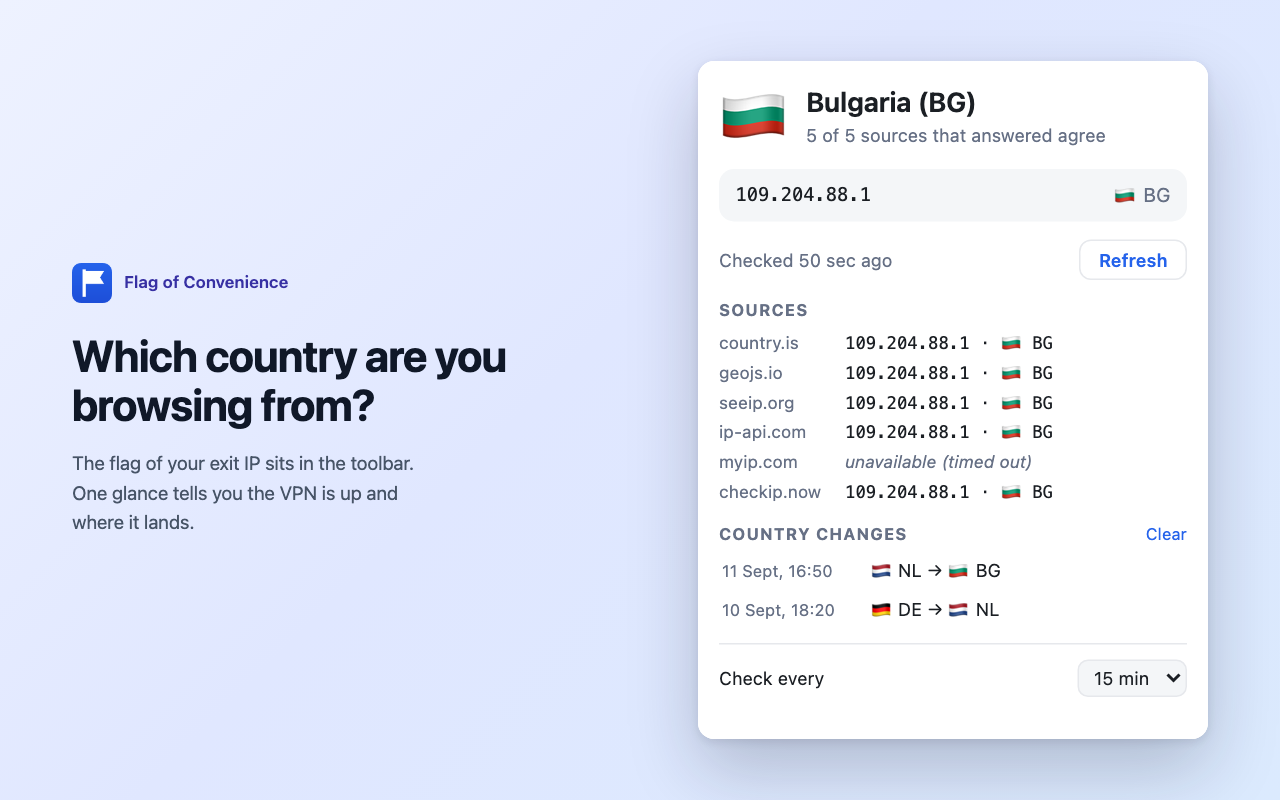
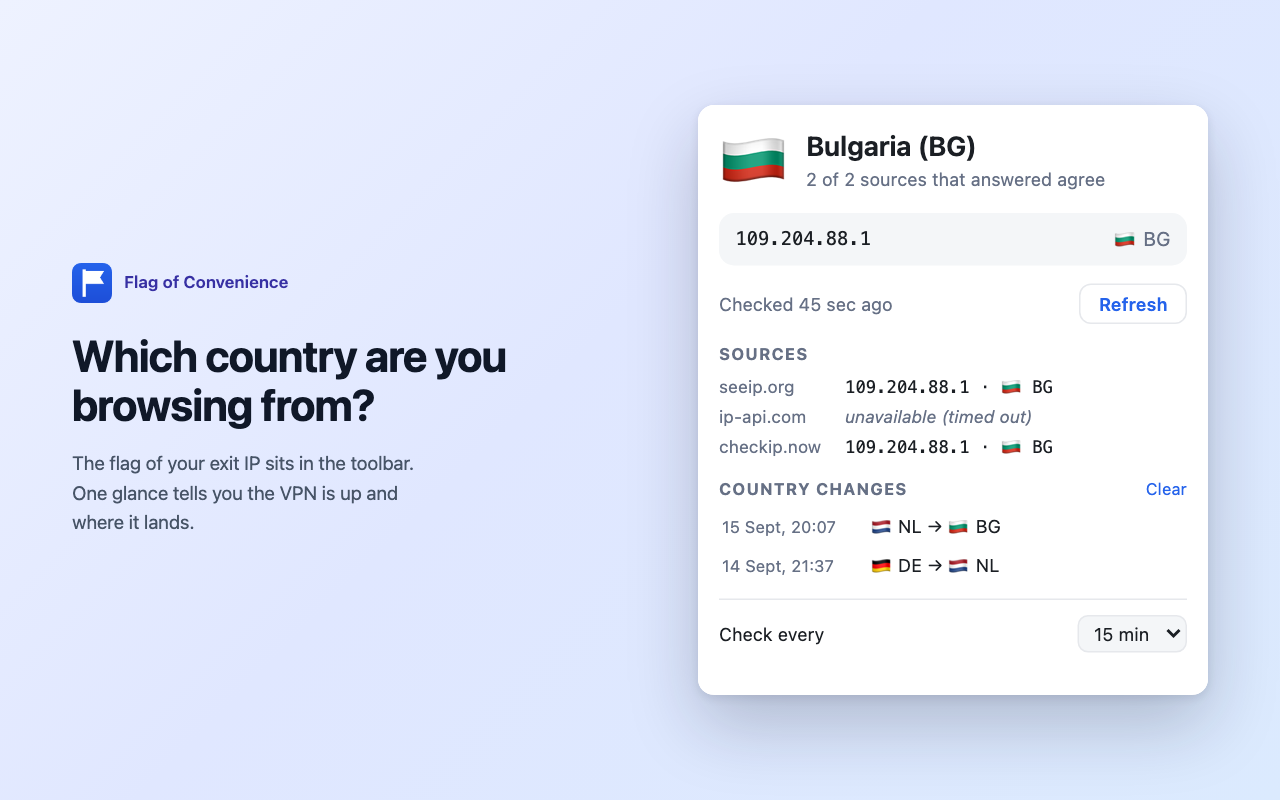
Keep only the HTTP/1.1 sources, and open the popup from the saved reading
country.is, GeoJS and myip.com were reached over HTTP/2, so their connections
could never be dropped after a check, and an answer from one of them might
still be travelling over a socket opened before the VPN came up. Everything
built to live with that - resting them between full rounds, overruling their
majority once the fresh witnesses disagreed with all of them, the https
witness an http answer needed before it could join that overruling - was
compensating for a problem the other three sources do not have. With
seeip.org, ip-api.com and checkip.now every source speaks HTTP/1.1, every
socket is closed after every check, and every answer is certain to have come
over the route in use at the time. Three witnesses still settle a
disagreement between two of them by majority.

The popup used to wait for the service worker before it showed anything:
getState was its only way to the data, and a cold worker that repaints the
toolbar icon on its way up could leave the popup on "Checking…" for a
noticeable moment. It now reads the saved state, history and settings
straight from storage and paints them, and wakes the worker only after that
frame has had a chance to land, to mark the country change as seen and to
refresh a stale reading. Anything that arrives in the meantime - a storage
event, a click on Clear, a new interval - wins over the slower disk read,
and a late worker reply cannot replace a newer reading. The canvas readback
[…]

diff --git a/lib/sources.js b/lib/sources.js
@@ -2,12 +2,15 @@
 // country in a single response, so no local geo database is needed.
 //
 // Several services are queried on every check on purpose: single services go
-// down (api.myip.com was unreachable for hours during development) and an exit
-// IP behind a VPN pool can differ between two requests made a second apart.
+// down for hours at a time, and an exit IP behind a VPN pool can differ
+// between two requests made a second apart.
 //
 // Every endpoint here must answer with `Access-Control-Allow-Origin: *`. That
 // is what lets the extension ship with no host permissions at all, so adding a
 // source means checking that header first.
+//
+// Every source is kept on a server that speaks HTTP/1.1, so its connection can
+// be dropped after each check - see dropConnections() for why that matters.
 //
 // https unless the service leaves no choice: one source is reached over plain
 // http because its free tier offers nothing else, and that is also what keeps
@@ -17,16 +20,6 @@
 import { canonicalize, isPublicIp } from './ip.js';
 
 export const SOURCES = [
-  {
-    id: 'country.is',
-    url: 'https://api.country.is/',
-    parse: (d) => ({ ip: d.ip, cc: d.country }),
-  },
-  {
-    id: 'geojs.io',
-    url: 'https://get.geojs.io/v1/ip/country.json',
-    parse: (d) => ({ ip: d.ip, cc: d.country }),
-  },
   {
     id: 'seeip.org',
     url: 'https://api.seeip.org/geoip',
@@ -48,17 +41,12 @@ export const SOURCES = [
     parse: (d) => ({ ip: d.query, cc: d.countryCode }),
   },
   {
-    id: 'myip.com',
-    url: 'https://api.myip.com/',
-    parse: (d) => ({ ip: d.ip, cc: d.cc }),
-  },
-  {
     id: 'checkip.now',
     url: 'https://api.checkip.now/',
     // Serves https over HTTP/1.1 on purpose (its ALPN offers nothing else), so
-    // its connection can be dropped after every check like seeip.org's. With
-    // three fresh witnesses a partial round can reach a majority on its own
-    // instead of waiting for the next full round when two of them disagree.
+    // its connection can be dropped after every check like seeip.org's. A third
+    // witness is what lets a round settle a disagreement between the other two
+    // by majority instead of waiting for the next check.
     http1: true,
     parse: (d) => ({ ip: d.ip, cc: d.cc }),
   },
@@ -206,9 +194,8 @@ export function probeAll(fetchImpl, shouldProbe, previous = []) {
 // an unfinished exchange leaves the connection unusable, so Chrome closes it
 // and the next check has to dial out again, over whatever route is current by
 // then. That works on HTTP/1.1 only - over HTTP/2 an abort resets one stream
-// and leaves the session open - which is why one source is deliberately kept
-// on a server that speaks HTTP/1.1, and why its verdict outranks the rest when
-// they disagree about both the address and the country.
+// and leaves the session open - which is why every source is deliberately kept
+// on a server that speaks HTTP/1.1.
 function dropOne(url, fetchImpl) {
   const ctl = new AbortController();
   let request;

diff --git a/popup/popup.js b/popup/popup.js
@@ -2,9 +2,10 @@ import { flagEmoji, countryName, supportsFlagEmoji, ccColor } from '../lib/flags
 
 const $ = (id) => document.getElementById(id);
 
-// Windows Chrome does not draw flag emoji, so fall back to country codes there.
-const FLAGS_OK = supportsFlagEmoji();
-const flag = (cc) => (FLAGS_OK ? flagEmoji(cc) : '');
+// Use a cheap platform hint for the first paint. The canvas/font readback used
+// to verify emoji support can stall a cold popup, so do it after it is visible.
+let flagsOk = !/^Win/i.test(navigator.userAgentData?.platform ?? navigator.platform ?? '');
+const flag = (cc) => (flagsOk ? flagEmoji(cc) : '');
 // Joined with a no-break space, so a flag never ends up on a line without its
 // code. trim() strips it again when there is no flag to join.
 const withFlag = (cc) => `${flag(cc)}\u00a0${cc}`.trim();
@@ -199,7 +200,7 @@ function render() {
   // reading should not rename the country under the user.
   const shown = state.stableCc ?? state.cc ?? null;
   const hero = $('hero-flag');
-  if (FLAGS_OK || !shown) {
+  if (flagsOk || !shown) {
     hero.textContent = flagEmoji(shown); // 🌐 exists on every platform
     hero.classList.remove('as-badge');
     hero.style.background = '';
@@ -323,6 +324,35 @@ setInterval(() => {
   }
 }, 1000);
 
-// Opening the popup is also what marks the latest country change as seen: the
-// background takes the dot off the icon when it answers this.
-load({ type: 'getState' });
+async function openPopup() {
+  // Read the saved reading directly: waking the worker (and repainting its
+  // toolbar icon) must not be a prerequisite for showing the popup's contents.
+  const before = { ...current };
+  try {
+    const saved = await chrome.storage.local.get(['state', 'history', 'settings']);
+    // Storage events or a user action may win the race with this initial read.
+    // Keep those newer values, including history cleared without a new check.
+    acceptData(
+      current.state === before.state ? saved.state : current.state,
+      current.history === before.history ? saved.history : current.history,
+    );
+    if (current.settings === before.settings) current.settings = saved.settings ?? null;
+    render();
+  } catch {
+    // The worker reply below is also a fallback if the direct read failed.
+  }
+
+  // A timer inside rAF runs after the browser has had a chance to paint; doing
+  // the work in rAF itself would still put it in front of that first frame.
+  await new Promise((resolve) => requestAnimationFrame(() => setTimeout(resolve, 0)));
+  // Still mark country changes as seen and refresh stale data in the worker.
+  // New readings arrive through storage.onChanged while the popup stays usable.
+  load({ type: 'getState' });
+  const supported = supportsFlagEmoji();
+  if (supported !== flagsOk) {
+    flagsOk = supported;
+    render();
+  }
+}
+
+openPopup();

diff --git a/popup/popup.html b/popup/popup.html
@@ -45,7 +45,7 @@
         <select id="interval">
           <option value="1">1 min</option>
           <option value="5">5 min</option>
-          <option value="15">15 min</option>
+          <option value="15" selected>15 min</option>
           <option value="60">60 min</option>
         </select>
       </label>

diff --git a/README.md b/README.md
@@ -15,7 +15,8 @@ looking, and the tunnel probably dropped.
   readable at 16 px (a country-code badge is used on Windows, where Chrome does
   not render flag emoji).
 - Popup with every exit address seen in the current check, what each source
-  reported, how many of them agreed, and click-to-copy on each address.
+  reported, how many of them agreed, and click-to-copy on each address. Opens
+  with the saved reading while the background worker wakes and checks stale data.
 - A red dot in the corner of the icon when the exit country changes. It stays
   until the popup is opened, and the icon's tooltip says which country it was
   before. No notification permission, no system banner to go missing.
@@ -31,23 +32,20 @@ looking, and the tunnel probably dropped.
 
 ## How it works
 
-Every check queries six independent services in parallel, each returning the
+Every check queries three independent services in parallel, each returning the
 exit IP and its country in one response:
 
 | Source | Endpoint | |
 | --- | --- | --- |
-| country.is | `https://api.country.is/` | |
-| GeoJS | `https://get.geojs.io/v1/ip/country.json` | |
 | seeip.org | `https://api.seeip.org/geoip` | HTTP/1.1, connection dropped after every check |
 | ip-api.com | `http://ip-api.com/json/?fields=status,message,countryCode,query` | HTTP/1.1, connection dropped after every check |
-| myip.com | `https://api.myip.com/` | |
 | checkip.now | `https://api.checkip.now/` | HTTP/1.1, connection dropped after every check |
 
 The country is decided by majority vote, which matters for two reasons found in
 practice:
 
-- **Single services go down.** `api.myip.com` was unreachable for hours during
-  development; one source is not enough to rely on.
+- **Single services go down.** During development one of the services used at
+  the time was unreachable for hours; one source is not enough to rely on.
 - **Exit IPs rotate.** Behind a VPN pool, two requests a second apart can leave
   through different addresses, and dual-stack services may see you over IPv4 or
   IPv6. No single "current IP" exists, so the popup lists every address that was
@@ -69,32 +67,12 @@ the wrong answer is genuinely fetched, over the wrong route.
 The only lever an extension has over the socket pool is an aborted request: an
 unfinished exchange leaves the connection unusable, so Chrome closes it and the
 next check has to dial out again. That works on HTTP/1.1 only — over HTTP/2 an
-abort resets a single stream and leaves the session open — so three sources are
-deliberately kept on servers that speak HTTP/1.1, and their sockets are dropped
-after every check. `seeip.org` and `checkip.now` speak it over https;
+abort resets a single stream and leaves the session open — so all three sources
+are deliberately kept on servers that speak HTTP/1.1, and their sockets are
+dropped after every check. `seeip.org` and `checkip.now` speak it over https;
 `ip-api.com` offers nothing but plain http on its free tier, which is exactly
-what pins it to HTTP/1.1.
-
-The other three cannot be closed that way, so instead they are left alone: a
-full round is run at most once every five minutes, whatever the check interval,
-and the checks in between rest on the HTTP/1.1 trio. A connection only closes
-while nothing is asking it anything, so the pause is what keeps those sources
-from being stuck on one socket forever when checks run every minute.
-
-Those three are therefore the only ones certain to have answered over the
-current route. Two of them agreeing is already a majority of a partial round, so
-a country change between full rounds no longer has to wait for one. When they
-all agree with each other, and every remaining source reports both
-a different address *and* a different country, the others are answering over
-sockets that outlived a network change: their majority is a majority about the
-past, and it is overruled at once instead of waiting for agreement that would
-never arrive. One shared address with two countries stays what it always was —
-the geo databases disagreeing — and several addresses in one country stay a
-rotating exit pool.
-
-An answer fetched over plain http can be rewritten in transit, so it never
-carries that decision alone: at least one of the agreeing fresh readings has to
-have arrived over https before the rest are declared stale.
+what pins it to HTTP/1.1. Every answer is therefore certain to have come over
+the route in use at the time of the check.
 
 ### Privacy properties
 
@@ -170,6 +148,7 @@ lib/flags.js         flag emoji, country names, toolbar icon and its dot
 popup/               popup UI
 store/               Chrome Web Store listing assets (not shipped in the zip)
 tools/test.mjs       unit tests
+tools/test-popup.mjs popup startup tests against the real popup script
 tools/make-icons.py  icon generator
 tools/make-store-assets.mjs  listing screenshots and promo tile
 tools/pack.mjs       upload package builder
@@ -177,10 +156,6 @@ tools/pack.mjs       upload package builder
 
 ## Data sources and credits
 
-- **country.is** — free for any use, no quota. Its data includes GeoLite data
-  created by MaxMind, available from https://www.maxmind.com.
-- **GeoJS** (geojs.io) — free, no rate limits; the default 15-minute interval
-  keeps the load to roughly 96 requests per user per day.
 - **seeip.org** — free and open source, with no request limit stated. It is also
   served over HTTP/1.1, which is what lets the extension drop its connection
   between checks.
@@ -190,12 +165,9 @@ tools/pack.mjs       upload package builder
   HTTP/1.1. The query asks for `status`, `message`, `countryCode` and `query`
   rather than a full profile. Some ranges fall back to GeoLite2 data created by
   MaxMind, available from https://www.maxmind.com.
-- **myip.com** — free with no request limit; the author asks for credit, which
-  this section provides.
 - **checkip.now** — free JSON endpoint of the checkip.now diagnostics page, with
-  no limits or terms published. Answers over https with the same `ip` and `cc`
-  fields as myip.com, and over HTTP/1.1, which is what lets the extension drop
-  its connection between checks.
+  no limits or terms published. Answers over https and over HTTP/1.1, which is
+  what lets the extension drop its connection between checks.
 
 ## License
 

diff --git a/store/LISTING.md b/store/LISTING.md
@@ -17,14 +17,14 @@ attached to the GitHub release).
 
 ## 1. Package
 
-Upload `dist/flag-of-convenience-2.3.0.zip` under **Items → Add new item**.
+Upload `dist/flag-of-convenience-2.4.0.zip` under **Items → Add new item**.
 
 Facts a reviewer will check, and where they come from:
 
 | Field | Value |
 | --- | --- |
 | Manifest version | 3 |
-| Version | 2.3.0 |
+| Version | 2.4.0 |
 | Permissions | `alarms`, `storage` |
 | Optional permissions | none |
 | Host permissions | none |
@@ -64,7 +64,7 @@ WHAT YOU GET
 
 HOW THE COUNTRY IS DECIDED
 
-Each check asks six independent public services in parallel — country.is, GeoJS, seeip.org, ip-api.com, myip.com and checkip.now — and the country is decided by majority vote. This matters in practice: single services go down for hours, and behind a VPN pool two requests a second apart can leave through different addresses. A country backed by a majority is applied at once; one that merely went uncontested has to be confirmed by the next check, so the icon does not flicker while sources disagree.
+Each check asks three independent public services in parallel — seeip.org, ip-api.com and checkip.now — and the country is decided by majority vote. This matters in practice: single services go down for hours, and behind a VPN pool two requests a second apart can leave through different addresses. A country backed by a majority is applied at once; one that merely went uncontested has to be confirmed by the next check, so the icon does not flicker while sources disagree.
 
 PRIVACY
 
@@ -124,7 +124,7 @@ it did not ship with; it only fetches JSON data over HTTPS.
 certify the three statements (data is not sold, not used for purposes unrelated
 to the single purpose, not used to determine creditworthiness or for lending).
 
-The six public services necessarily observe the requesting IP address in order
+The three public services necessarily observe the requesting IP address in order
 to answer — any HTTP request reveals it — but that is the service answering the
 user's own request, not the developer collecting anything. This is spelled out
 in the privacy policy.

diff --git a/PRIVACY.md b/PRIVACY.md
@@ -34,11 +34,8 @@ this extension. There is no account, no identifier, and no tracking.
 
 Each check contacts these endpoints:
 
-- `https://api.country.is/` — country.is
-- `https://get.geojs.io/v1/ip/country.json` — GeoJS
 - `https://api.seeip.org/geoip` — seeip.org
 - `http://ip-api.com/json/?fields=status,message,countryCode,query` — ip-api.com
-- `https://api.myip.com/` — myip.com
 - `https://api.checkip.now/` — checkip.now
 
 Requests are GET only, are sent with `credentials: 'omit'`, and carry no
